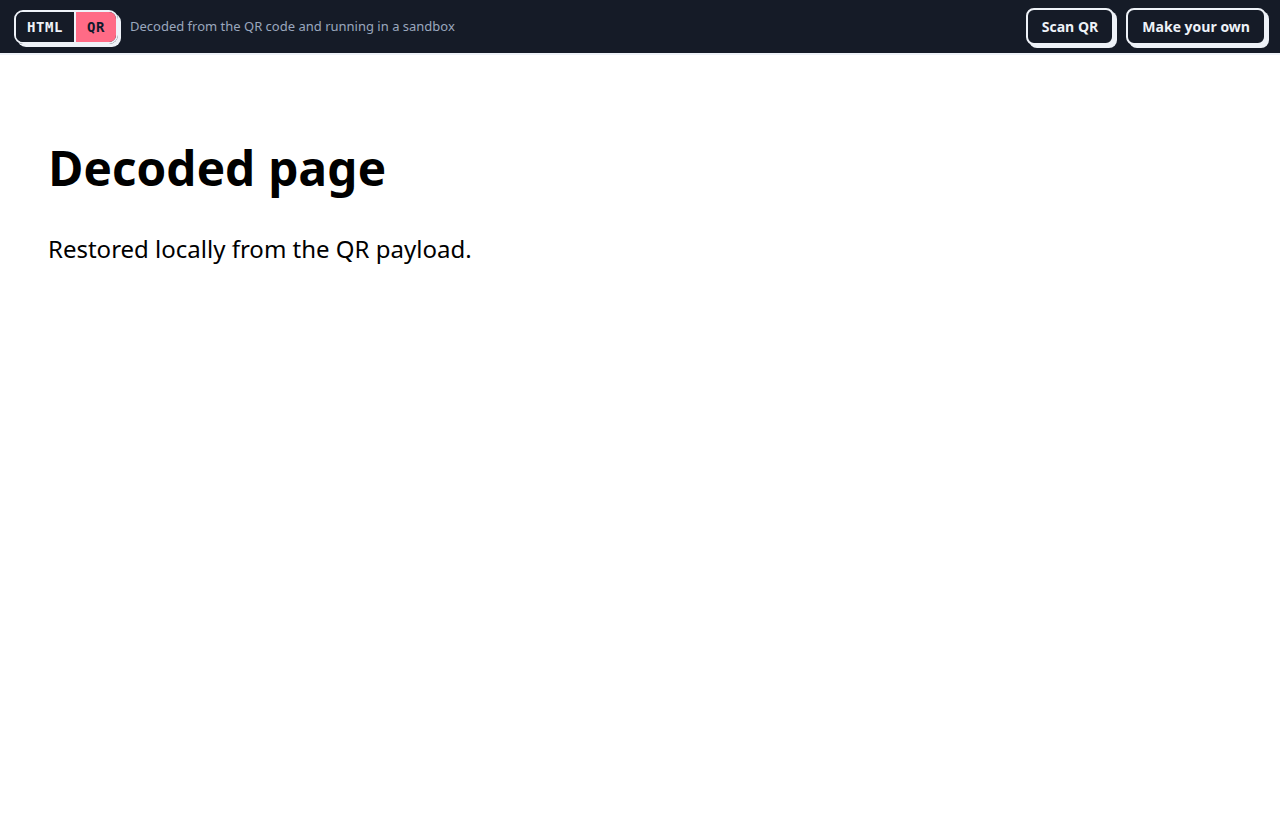
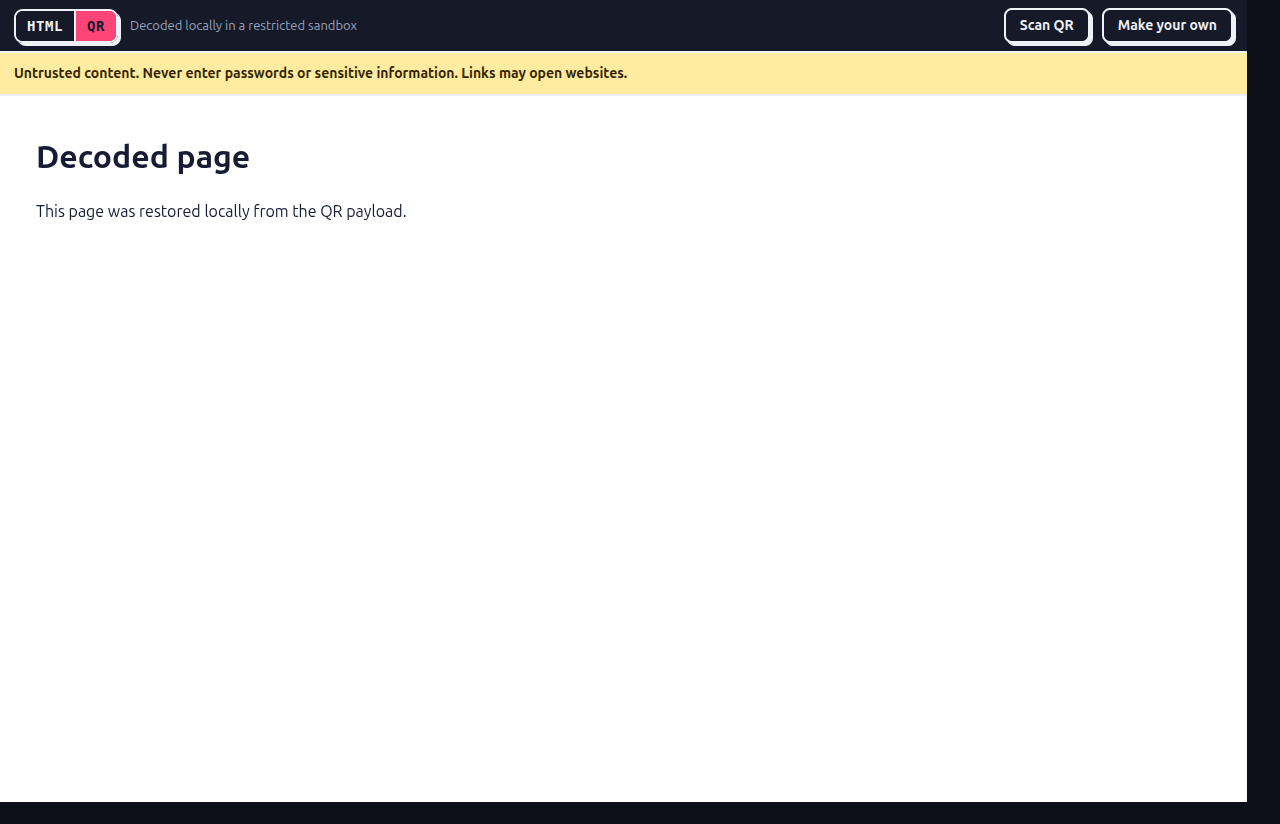
Harden decoded page handling

Changed region(s): [[0.0, 0.0, 1.0, 1.0], [0.0312, 0.1829, 0.375, 0.3354]]

diff --git a/script.js b/script.js
@@ -75,15 +75,12 @@ function updateTemplatePreview(id = location.hash.slice("#template-".length)) {
 }
 
 /* ---------- HTML minifier (leaves <script>, <pre>, <textarea> alone) ---------- */
-const STRUCTURAL = "html|head|body|style|script|title|meta|link|div|p|h[1-6]|ul|ol|li|section|main|header|footer|nav|table|tr|td|th|br|hr";
 function minifyHTML(html) {
   const keep = [];
   let s = html.replace(/<(script|pre|textarea)\b[\s\S]*?<\/\1>/gi, (m) => { keep.push(m); return `\u0001${keep.length - 1}\u0002`; });
   s = s.replace(/<!--[\s\S]*?-->/g, "")
     .replace(/<style\b[^>]*>[\s\S]*?<\/style>/gi, (m) => m.replace(/\/\*[\s\S]*?\*\//g, "").replace(/\s*([{};,>])\s*/g, "$1").replace(/:\s+/g, ":"))
     .replace(/\s+/g, " ")
-    .replace(new RegExp(`\\s+(<\\/?(?:${STRUCTURAL})\\b[^>]*>)`, "gi"), "$1")
-    .replace(new RegExp(`(<\\/?(?:${STRUCTURAL})\\b[^>]*>)\\s+`, "gi"), "$1")
     .trim();
   return s.replace(/\u0001(\d+)\u0002/g, (_, i) => keep[i]);
 }
@@ -111,22 +108,6 @@ function toBase64Url(u8) {
   return btoa(s).replace(/\+/g, "-").replace(/\//g, "_").replace(/=+$/, "");
 }
 const BASE43 = "0123456789ABCDEFGHIJKLMNOPQRSTUVWXYZ$%*+-./";
-function base43Length(byteLength) { return Math.floor(byteLength / 2) * 3 + (byteLength % 2 ? 2 : 0); }
-function toBase43(bytes) {
-  let out = "";
-  for (let i = 0; i < bytes.length; i += 2) {
-    const single = bytes.length - i === 1;
-    const digits = single ? 2 : 3;
-    let value = single ? bytes[i] : bytes[i] * 256 + bytes[i + 1];
-    let group = "";
-    for (let digit = digits - 1; digit >= 0; digit--) {
-      group = BASE43[value % 43] + group;
-      value = Math.floor(value / 43);
-    }
-    out += group;
-  }
-  return out;
-}
 function fromBase43(text) {
   if (text.length % 3 === 1) throw new Error("This compact QR payload is invalid.");
   const bytes = [];
@@ -204,7 +185,6 @@ async function buildPayload(measureOnly = false) {
     p.url = prefix + b64;
     p.payloadBytes = byteLen(p.url);
   }
-  p.qrEquivalentBytes = p.payloadBytes;
   return p;
 }
 
@@ -212,14 +192,14 @@ async function updateMeter() {
   const id = ++seq;
   const p = await buildPayload(true);
   if (id !== seq) return;
-  const cap = CAPACITY[ecSelect.value], pct = (p.qrEquivalentBytes / cap) * 100;
+  const cap = CAPACITY[ecSelect.value], pct = (p.payloadBytes / cap) * 100;
   $("meter-text").textContent = `${fmt(p.payloadBytes)} / ${fmt(cap)} bytes (${pct.toFixed(1)}%)`;
   $("bar-fill").style.width = Math.min(pct, 100) + "%";
   $("meter-cap").textContent = `Max: Version 40-${ecSelect.value}, byte mode`;
   meter.classList.toggle("warn", pct > 70 && pct <= 100);
   meter.classList.toggle("bad", pct > 100);
   $("meter-free").textContent = pct > 100 ? `Over by ${fmt(p.payloadBytes - cap)} bytes` : `${fmt(cap - p.payloadBytes)} bytes free`;
-  button.disabled = pct > 100 || p.empty;
+  button.disabled = p.payloadBytes > cap || p.empty;
 }
 
 /* ---------- QR rendering ---------- */
@@ -317,12 +297,15 @@ function decodeHtmlDataUrl(value) {
   return decodeURIComponent(body);
 }
 const approvedPayloads = new Set();
-const UNTRUSTED_CSP = `<meta http-equiv="Content-Security-Policy" content="default-src 'none'; script-src 'unsafe-inline'; style-src 'unsafe-inline'; img-src data: blob:; font-src data:; media-src data: blob:; connect-src 'none'; form-action 'none'; base-uri 'none'; object-src 'none'; frame-src 'none'">`;
 function secureUntrustedHtml(html) {
-  const doctype = html.match(/^\uFEFF?\s*<!doctype[^>]*>/i);
-  if (!doctype) return UNTRUSTED_CSP + html;
-  const end = doctype[0].length;
-  return html.slice(0, end) + UNTRUSTED_CSP + html.slice(end);
+  const parsed = new DOMParser().parseFromString(html, "text/html");
+  parsed.querySelectorAll("script").forEach((script) => script.remove());
+  parsed.querySelectorAll('meta[http-equiv="refresh" i]').forEach((meta) => meta.remove());
+  const policy = parsed.createElement("meta");
+  policy.httpEquiv = "Content-Security-Policy";
+  policy.content = "default-src 'none'; script-src 'none'; style-src 'unsafe-inline'; img-src data: blob:; font-src data:; media-src data: blob:; connect-src 'none'; form-action 'none'; base-uri 'none'; object-src 'none'; frame-src 'none'";
+  parsed.head.prepend(policy);
+  return `<!doctype html>${parsed.documentElement.outerHTML}`;
 }
 function confirmPageRun(payloadKey) {
   if (approvedPayloads.has(payloadKey)) return Promise.resolve(true);
@@ -431,7 +414,7 @@ button.addEventListener("click", async () => {
   try {
     status.textContent = "Generating QR...";
     const p = await buildPayload(), level = ecSelect.value;
-    if (p.qrEquivalentBytes > CAPACITY[level]) throw new Error("This HTML is too large for a single QR code.");
+    if (p.payloadBytes > CAPACITY[level]) throw new Error("This HTML is too large for a single QR code.");
     const qr = qrcode(0, level); // 0 = smallest version that fits (easiest to scan)
     qr.addData(p.url, "Byte");
     qr.make();

diff --git a/index.html b/index.html
@@ -55,14 +55,14 @@
     <h1>Put a whole webpage inside a QR code.</h1>
     <p class="lead">
       <span>Paste a small page of HTML and get one QR code that carries every byte of it, with no server storing the page.</span>
-      <span>Scan it and the page rebuilds on the phone itself.</span>
+      <span>Scan it and view the page on your phone, without sending its source to a server.</span>
     </p>
     <h2>How should the page travel inside the code?</h2>
     <div class="choices">
       <a class="card choice" href="#compress">
         <h3>Compress, then decode on a page</h3>
         <div class="pipe"><i>HTML</i>&rsaquo;<i>GZIP</i>&rsaquo;<i>Base64</i>&rsaquo;<i>HTMLQR1/2:</i></div>
-        <p>The HTML is compressed and stored in the QR as a link back to this same app. Scanning opens the app, which unpacks the page and runs it. The data never leaves the QR.</p>
+        <p>The HTML is compressed and stored in the QR as a link back to this app. Scanning opens the app, which decodes it and displays it after confirmation in a restricted sandbox. The source stays in the QR.</p>
         <div class="tags"><span class="tag">Fits more HTML</span><span class="tag o">Decoded by this app</span></div>
       </a>
       <a class="card choice" href="#dataurl">
@@ -156,7 +156,7 @@
     <div id="stats"></div>
 
 
-    <p class="note">Some scanners show a <code>data:</code> link as plain text instead of opening it. If so, copy it into the browser address bar.</p>
+    <p class="note">Some scanners show a <code>data:</code> link as plain text. Use this app&rsquo;s <strong>Scan QR</strong> button to open it with the confirmation and sandbox; opening the URL directly bypasses those protections.</p>
   </section>
   <section id="templateGallery" hidden>
     <div class="template-heading">
@@ -192,8 +192,8 @@
     <button class="btn s" type="button" data-open="scannerDialog">Scan QR</button>
     <a class="btn s" href="#compress">Make your own</a>
   </div>
-  <aside class="viewer-warning" role="note">Untrusted content. Never enter passwords or sensitive information on this page.</aside>
-  <iframe id="vframe" sandbox="allow-scripts" title="Decoded page"></iframe>
+  <aside class="viewer-warning" role="note">Untrusted content. Never enter passwords or sensitive information. Links may open websites.</aside>
+  <iframe id="vframe" sandbox title="Decoded page"></iframe>
 </section>
 
 <dialog id="scannerDialog" class="modal scanner-modal">
@@ -230,7 +230,7 @@
   <form method="dialog">
     <div class="modal-head"><h2 id="runPageTitle">Run this page?</h2></div>
     <div class="confirm-content">
-      <p id="runPageMessage">QR content is untrusted. Scripts can run after you continue, but network requests, forms, and popups are restricted. Never enter passwords or sensitive information.</p>
+      <p id="runPageMessage">QR content is untrusted. Scripts, forms, popups, and automatic redirects are disabled. Links you open may navigate to websites. Never enter passwords or sensitive information.</p>
       <div class="confirm-actions">
         <button class="btn s" type="submit" value="cancel">Cancel</button>
         <button class="btn" type="submit" value="run">Run page</button>

diff --git a/README.md b/README.md
@@ -6,7 +6,7 @@ Create a QR code that carries a small HTML page. Edit and preview the source in 
 
 If HTML to QR is useful to you, please [star the repository on GitHub](https://github.com/silven-mohan/html2qr).
 
-![HTML to QR home screen showing the compressed-link and direct-data-URL options](assets/screenshots/home.png)
+![Current HTML to QR home screen showing the compressed and data URL options plus the Templates entry](assets/screenshots/home.png)
 
 ## Features
 
@@ -19,7 +19,7 @@ If HTML to QR is useful to you, please [star the repository on GitHub](https://g
 - **Animated QR intro:** A QR code bursts into particles when the app opens. Skip it at any time; it is automatically skipped when reduced motion is enabled.
 - **Built-in QR scanner:** Opens from the app header and decoded-page toolbar. It requests camera access and fills the available viewport on phone, landscape, and desktop displays. It opens compressed HTMLQR payloads, follows scanned web links, and displays scanned `data:text/html` URLs in the app. The video uses `object-fit: contain` so the camera image is not cropped.
 - **Optional password protection:** Encrypts compressed payloads with AES-256-GCM and a PBKDF2-SHA-256-derived key. The receiver enters the password to decrypt in the browser. Password fields include show/hide controls.
-- **Untrusted-page safeguards:** Decoded pages require an explicit run confirmation, stay inside a restricted sandbox, and display a persistent warning not to enter passwords or sensitive information.
+- **Untrusted-page safeguards:** Decoded pages require confirmation. Scripts and automatic refresh redirects are removed; forms, popups, and external resources are blocked. Clicked links may still navigate inside the sandbox, and the persistent warning advises against entering sensitive information.
 - **Responsive interface:** Workbench controls adapt to narrow screens; the scanner uses the full dynamic viewport and accounts for device safe areas.
 
 ![Diagram of the current compressed byte-mode and direct data URL workflows, including scanner confirmation and the restricted sandbox](assets/encoding-workflows.svg)
@@ -29,7 +29,7 @@ If HTML to QR is useful to you, please [star the repository on GitHub](https://g
 Choose how the HTML should travel in the QR code:
 
 - **Compress, then decode on a page:** The app optionally minifies and GZIP-compresses the HTML, then Base64-encodes it in a single byte-mode URL for broad scanner compatibility. The QR holds a link to the app with its payload in the URL fragment. New unencrypted payloads use `HTMLQR1:` and password-encrypted payloads use `HTMLQR2:`. Existing compact `HTMLQR3:` and `HTMLQR4:` Base43 payloads are still supported. Set the hosted-app URL in the workbench so scanning opens the decoder. This mode needs the decoder app.
-- **Convert to a data URL:** The app optionally minifies the HTML and embeds it directly in a `data:text/html` URL. No decoder or hosted app URL is needed, but the uncompressed content must fit the QR. Some scanner apps show data URLs as text; if so, copy the URL into a browser address bar.
+- **Convert to a data URL:** The app optionally minifies the HTML and embeds it directly in a `data:text/html` URL. No decoder or hosted app URL is needed, but the uncompressed content must fit the QR. If another scanner shows the URL as text, use this app's **Scan QR** control to get its confirmation and restricted viewer. Opening the data URL directly bypasses those safeguards.
 
 ![Compressed workbench with a generated QR image, download control, payload meter, and QR statistics](assets/screenshots/compressed-workbench.png)
 
@@ -68,9 +68,9 @@ The scanner capture below shows its camera-permission status; when permission is
 
 ![Full-screen mobile QR scanner view and camera status](assets/screenshots/scanner-fullscreen.png)
 
-After scanning a compressed QR or a `data:text/html` URL, the app asks before running the page. A persistent warning remains above the page. Decoded HTML runs in a sandbox without form or popup permissions and with a CSP that blocks network resources by default; inline scripts and styles are permitted so self-contained pages can work. Encrypted codes first request their password in the app UI, outside the decoded page.
+After scanning a compressed QR or a `data:text/html` URL, the app asks before displaying the page. Decoded scripts and automatic meta-refresh redirects are removed, the iframe sandbox disables scripts, forms, and popups, and a restrictive CSP blocks external subresources and form submissions in the decoded document. Links remain clickable and can navigate the sandboxed frame to another site, so only open links you trust. Encrypted codes first request their password in the app UI, outside the decoded page. Opening a data URL directly in another app or browser bypasses these safeguards.
 
-![Decoded HTML displayed in the app viewer](assets/screenshots/decoded-page.png)
+![Decoded HTML displayed below the persistent untrusted-content warning](assets/screenshots/decoded-page.png)
 
 ![Illustration of the four error-correction settings and their maximum byte-mode payload sizes](assets/qr-capacity.svg)
 
@@ -93,7 +93,7 @@ To deploy your own copy, host the files as a static site and use that site's bas
 - HTML generation, compression, encryption, and decryption happen in the browser; the app does not upload the page source to a backend.
 - Compressed payloads are carried in the QR's URL fragment, not stored as server-side page data.
 - Password-protected payloads use authenticated AES-GCM encryption. The password is not embedded in the code.
-- Decoded HTML requires confirmation and runs in an opaque-origin sandbox with scripts enabled but no form or popup permissions. A restrictive CSP blocks network resources by default; inline scripts and styles are still allowed.
+- Decoded HTML requires confirmation and runs in an opaque-origin sandbox with scripts, forms, and popups disabled. Scripts and automatic meta-refresh redirects are removed before display; a restrictive CSP blocks external subresources and form submissions in the decoded document. Links clicked inside the page can still navigate the sandboxed frame to another site. Opening a data URL outside the app bypasses these protections.
 - The app keeps an untrusted-content warning visible while a decoded page is open. Do not enter passwords or sensitive information into scanned pages.
 - Unencrypted QR codes are readable by anyone who obtains them. Do not encode secrets or sensitive data without password protection.
 
